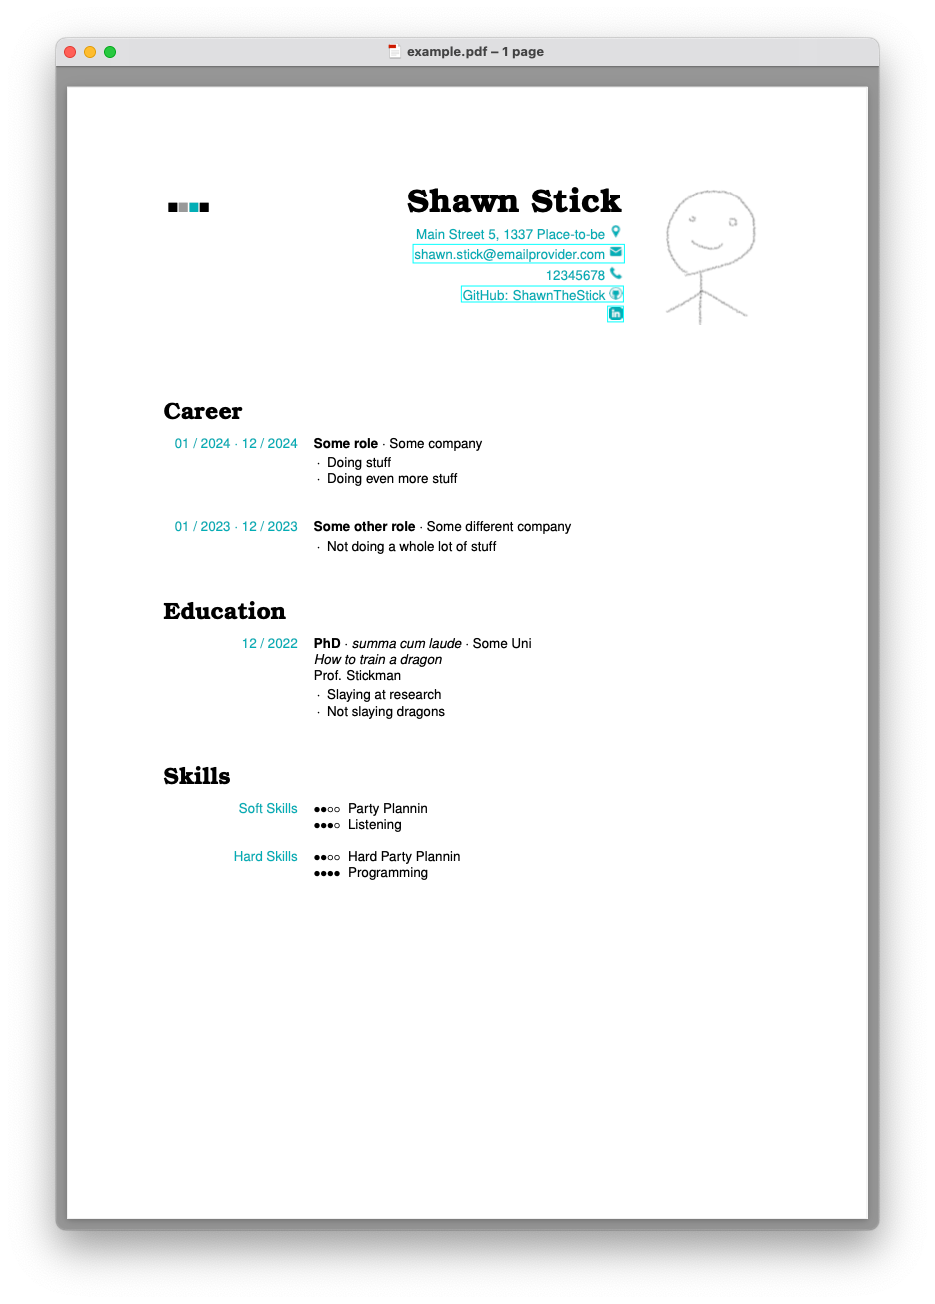
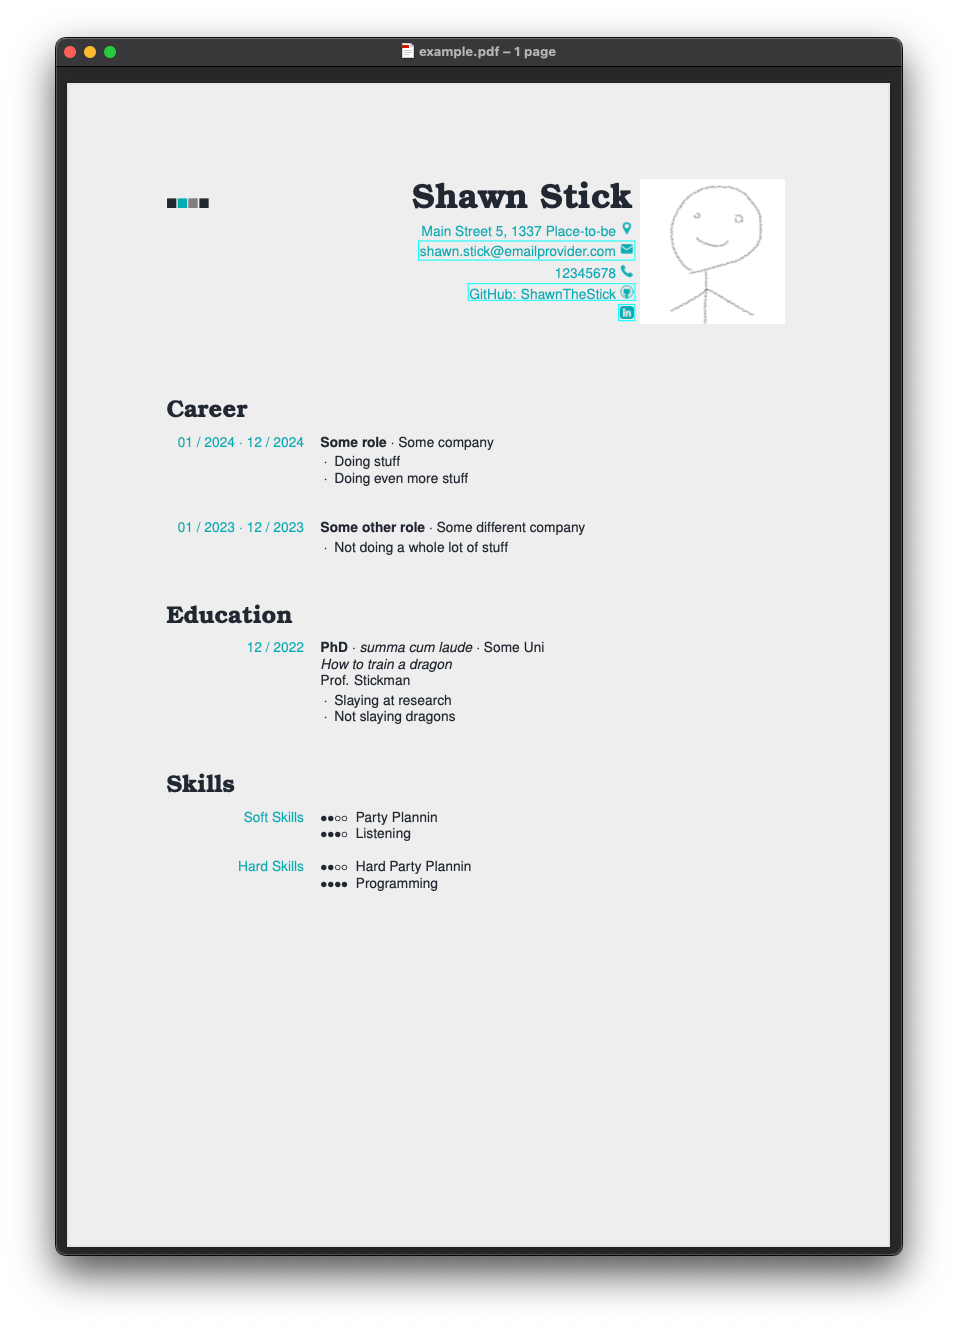
Aligned color keys across templates

diff --git a/src/templates/modern.tex b/src/templates/modern.tex
@@ -73,71 +73,39 @@
 % </aboutme>
 % </personal info>
 
+% Define color pallette
+% <colors>
+% <primary>
+\newcommand{\htmlprimary}{%
+	FFFFFF% primary
+}
+% </primary>
+% <secondary>
+\newcommand{\htmlsecondary}{%
+	999999% secondary
+}
+% </secondary>
+% <accent>
+\newcommand{\htmlaccent}{%
+	222222% accent
+}
+% </accent>
+% </colors>
+
+
 %% Colors
 %%% For 2 color mode, set rightsideaccent = leftsideaccent
 %%% For 1 color mode, set leftsideaccent = 000000 and rightsideaccent = leftsidefill
 % Define standard color pallette
-\definecolor{rightsidefill}{HTML}{FFFFFF} % Fill color of right side
-\definecolor{leftsidefill}{HTML}{4F9EAA} % Fill color of left side
-\definecolor{leftsideaccent}{HTML}{000000} % Fill color of photo border and progress bar
-\definecolor{rightsideaccent}{HTML}{4F9EAA} % Text color of headings on right side
-\definecolor{rightsidetext}{HTML}{000000} % Text color on right side
-\definecolor{rightsidetext2}{HTML}{888888} % Text color for dates and locations on right side
-\definecolor{leftsidetext}{HTML}{FFFFFF} % Text color on left side
+\definecolor{rightsidefill}{HTML}{\htmlprimary} % Fill color of right side
+\definecolor{leftsidefill}{HTML}{\htmlsecondary} % Fill color of left side
+\definecolor{leftsideaccent}{HTML}{\htmlaccent} % Fill color of photo border and progress bar
+\definecolor{rightsideaccent}{HTML}{\htmlaccent} % Text color of headings on right side
+\definecolor{rightsidetext}{HTML}{\htmlsecondary} % Text color on right side
+\definecolor{rightsidetext2}{HTML}{\htmlaccent} % Text color for dates and locations on right side
+\definecolor{leftsidetext}{HTML}{\htmlprimary} % Text color on left side
 %%% Accent color combinations
 %%% 4F9EAA 802651
-
-% Redefine color pallette
-% <colors>
-% <right side fill>
-\newcommand{\htmlrightsidefill}{%
-	FFFFFF% right side fill
-}
-\definecolor{rightsidefill}{HTML}{\htmlrightsidefill}
-% </right side fill>
-% <left side fill>
-\newcommand{\htmlleftsidefill}{%
-	4F9EAA% left side fill
-}
-\definecolor{leftsidefill}{HTML}{\htmlleftsidefill}
-% </left side fill>
-% <left side accent>
-\newcommand{\htmlleftsideaccent}{%
-	000000% left side accent
-}
-\definecolor{leftsideaccent}{HTML}{\htmlleftsideaccent}
-% </left side accent>
-% <right side accent>
-\newcommand{\htmlrightsideaccent}{%
-	4F9EAA% right side accent
-}
-\definecolor{rightsideaccent}{HTML}{\htmlrightsideaccent}
-% </right side accent>
-% <right side text>
-\newcommand{\htmlrightsidetext}{%
-	000000% right side text
-}
-\definecolor{rightsidetext}{HTML}{\htmlrightsidetext}
-% </right side text>
-% <right side text 2>
-\newcommand{\htmlrightsidetexttwo}{%
-	888888% right side text 2
-}
-\definecolor{rightsidetext2}{HTML}{\htmlrightsidetexttwo}
-% </right side text 2>
-% <left side text>
-\newcommand{\htmlleftsidetext}{%
-	FFFFFF% left side text
-}
-\definecolor{leftsidetext}{HTML}{\htmlleftsidetext}
-% </left side text>
-% <icons>
-\newcommand{\htmlicons}{%
-	000000% icons
-}
-\definecolor{icons}{HTML}{\htmlicons}
-% </icons>
-% </colors>
 
 
 %% Dimensions
@@ -306,7 +274,7 @@
     	%     ADDRESS     %
     	%%%%%%%%%%%%%%%%%%%
 
-    	\includegraphics[height=2em]{img/_\htmlicons _address.png}
+    	\includegraphics[height=2em]{img/_\htmlaccent _address.png}
 
 		\address
 
@@ -319,7 +287,7 @@
     	%%%%%%%%%%%%%%%%%
 
 		\href{mailto:\email}{%
-		\includegraphics[height=2em]{img/_\htmlicons _email.png}
+		\includegraphics[height=2em]{img/_\htmlaccent _email.png}
 		}
 
 		\href{mailto:\email}{\email}
@@ -332,7 +300,7 @@
     	%     PHONE     %
     	%%%%%%%%%%%%%%%%%
 
-		\includegraphics[height=2em]{img/_\htmlicons _phone.png}
+		\includegraphics[height=2em]{img/_\htmlaccent _phone.png}
 
 		\phone
 
@@ -345,7 +313,7 @@
     	%%%%%%%%%%%%%%%%%%%%
 
     	\href{https://www.linkedin.com\linkedin}{
-		\includegraphics[height=2em]{img/_\htmlicons _linkedin.png}
+		\includegraphics[height=2em]{img/_\htmlaccent _linkedin.png}
 		}
 
 		\href{https://www.linkedin.com\linkedin}{\linkedin}
@@ -359,7 +327,7 @@
     	%%%%%%%%%%%%%%%%%%
 
     	\href{https://www.github.com/\github}{
-		\includegraphics[height=2em]{img/_\htmlicons _github.png}
+		\includegraphics[height=2em]{img/_\htmlaccent _github.png}
 		}
 
 		\href{https://www.github.com/\github}{\github}

diff --git a/src/templates/classic.tex b/src/templates/classic.tex
@@ -19,25 +19,28 @@
 
 %colors
 % <colors>
+% <primary>
+\newcommand{\htmlprimary}{%
+	FFFFFF% primary
+}
+\definecolor{primary}{HTML}{\htmlprimary}
+% </primary>
+% <secondary>
+\newcommand{\htmlsecondary}{%
+	999999% secondary
+}
+\definecolor{secondary}{HTML}{\htmlsecondary}
+% </secondary>
 % <accent>
 \newcommand{\htmlaccent}{%
-	DD1111% accent
+	222222% accent
 }
 \definecolor{accent}{HTML}{\htmlaccent}
 % </accent>
-% <second>
-\newcommand{\htmlsecond}{%
-	999999% second
-}
-\definecolor{second}{HTML}{\htmlsecond}
-% </second>
-% <icons>
-\newcommand{\htmlicons}{%
-	222222% icons
-}
-\definecolor{icons}{HTML}{\htmlicons}
-% </icons>
 % </colors>
+
+\pagecolor{primary}
+\color{secondary}
 
 %macros
 
@@ -82,21 +85,20 @@
 
 \begin{document}
 	% <personal info>
-	\colorbox{white}{%
 	\parbox[t]{\textwidth-4cm}{%
-			$\blacksquare \color{accent}{\blacksquare} \color{second}{\blacksquare} \color{black}{\blacksquare}$
+			$\color{secondary}{\blacksquare} \color{accent}{\blacksquare} \color{gray}{\blacksquare} \color{secondary}{\blacksquare}$
 			% <name>
 			\hfill {\Huge \fontfamily{qbk} \textbf{%
 				name% name
 			}}
 			% </name>
 		\begin{flushright}
-			\color{second}{%
+			\color{accent}{%
 			% <address>
 				address% address
 			\
 			\includegraphics[width=10pt]{img/_%
-			\htmlicons%
+			\htmlaccent%
 			_address.png}
 			\\
 			\vspace{.3em}
@@ -108,7 +110,7 @@
 			\href{mailto:\email}{\email%
 			\
 			\includegraphics[width=10pt]{img/_%
-			\htmlicons%
+			\htmlaccent%
 			_email.png}}
 			\\
 			\vspace{.3em}
@@ -117,7 +119,7 @@
 				1312% phone
 			\
 			\includegraphics[width=10pt]{img/_%
-			\htmlicons%
+			\htmlaccent%
 			_phone.png}
 			\\
 			\vspace{.3em}
@@ -129,7 +131,7 @@
 			\href{https://github.com/\github}{GitHub: \github%
 			\
 			\includegraphics[width=10pt]{img/_%
-			\htmlicons%
+			\htmlaccent%
 			_github.png}}
 			\\
 			\vspace{.3em}
@@ -139,24 +141,21 @@
 				/in/linkedin% linkedin
 			}
 			\href{https://www.linkedin.com\linkedin/}{\includegraphics[width=10pt]{img/_%
-			\htmlicons%
+			\htmlaccent%
 			_linkedin.png}}
 			% </linkedin>
 			}
 		\end{flushright}
 	}
-	}
 	\hfill%
-	\colorbox{white}{%
 	\parbox[t]{4cm}{%
 
 		\vspace{-20.74 pt}%
 		% <photo>
-		\includegraphics[height=3.7cm]{%
+		\ \includegraphics[height=3.7cm]{%
 			img/foto_dario_1_2_500KB% photo
 		}
 		% </photo>
-	}
 	}
 	% </personal info>
 
@@ -177,7 +176,7 @@
 	\nopagebreak[4]
 	\begin{tabular}{>{\raggedleft\arraybackslash}p{3.3cm}>{\raggedright\arraybackslash}p{12cm}}
 		% <vita item>
-		\textcolor{second}{%
+		\textcolor{accent}{%
 		% <start date>
 			start date% start date
 		% </start date>
@@ -249,7 +248,7 @@
 	\nopagebreak[4]
 	\begin{tabular}{>{\raggedleft\arraybackslash}p{3.3cm}l}
 		% <quality section>
-		\textcolor{second}{%
+		\textcolor{accent}{%
 		% <section name>
 			section% section name
 		% </section name>

diff --git a/main.py b/main.py
@@ -30,7 +30,7 @@ def run_engine(input_folder_path: Path, output_folder_path: Path) -> None:
     cfg = update_and_save_photo(cfg, input_folder_path, output_folder_path)
 
     # Extract icons color
-    icons_color = str(cfg["colors"]["icons"])
+    icons_color = str(cfg["colors"]["accent"])
 
     # Save icons
     save_icons(output_folder_path, icons_color)

diff --git a/README.md b/README.md
@@ -51,7 +51,7 @@ colors:
     second: "00ADB5"
     accent: "999999"
     icons: "00ADB5"
-    ,,,
+    ...
 
 geometry:
     left side ratio: .33
